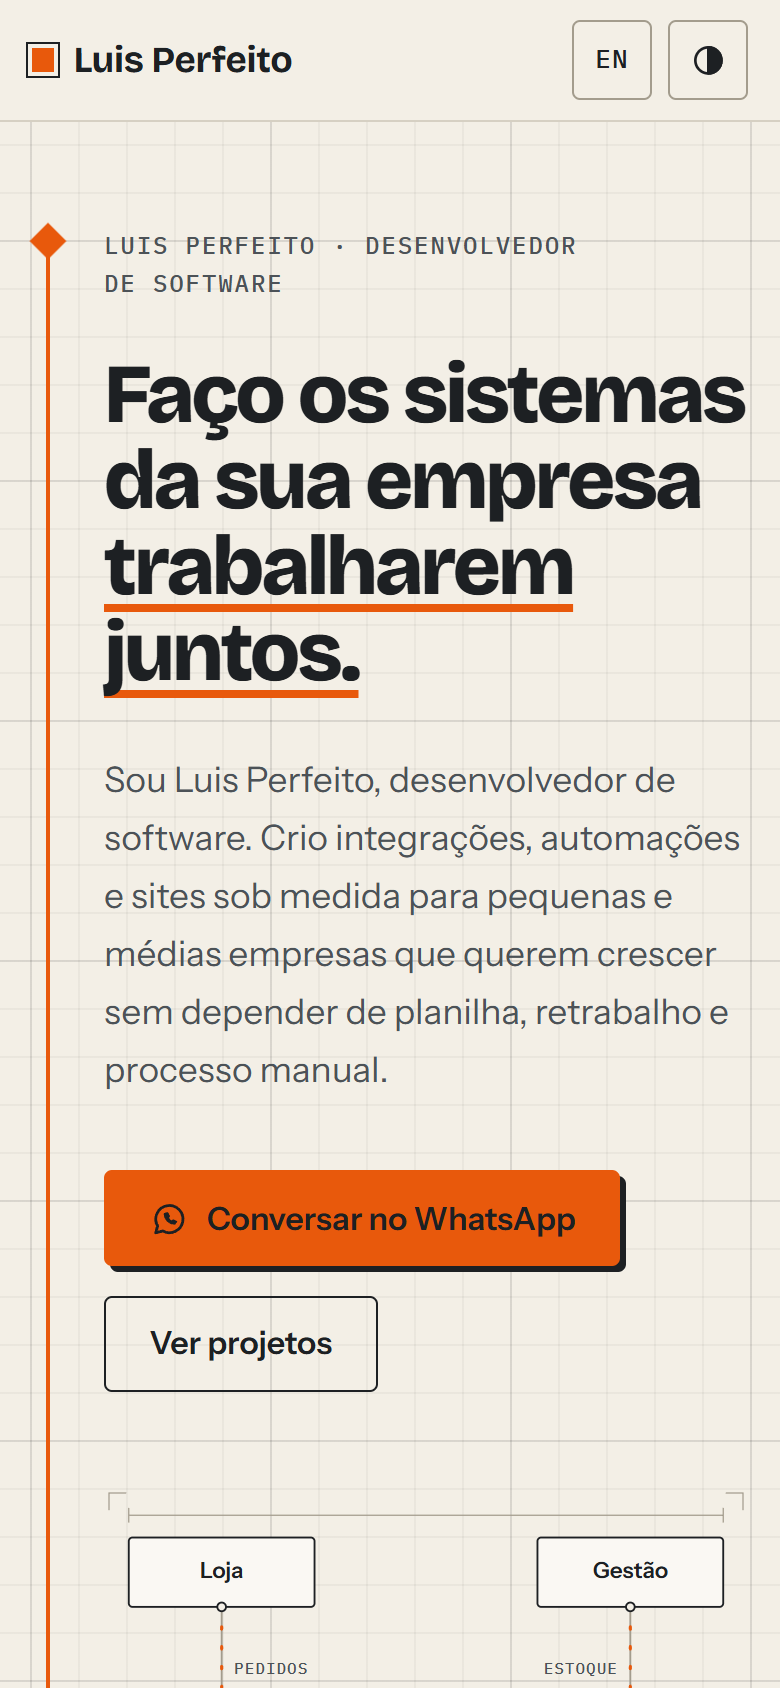
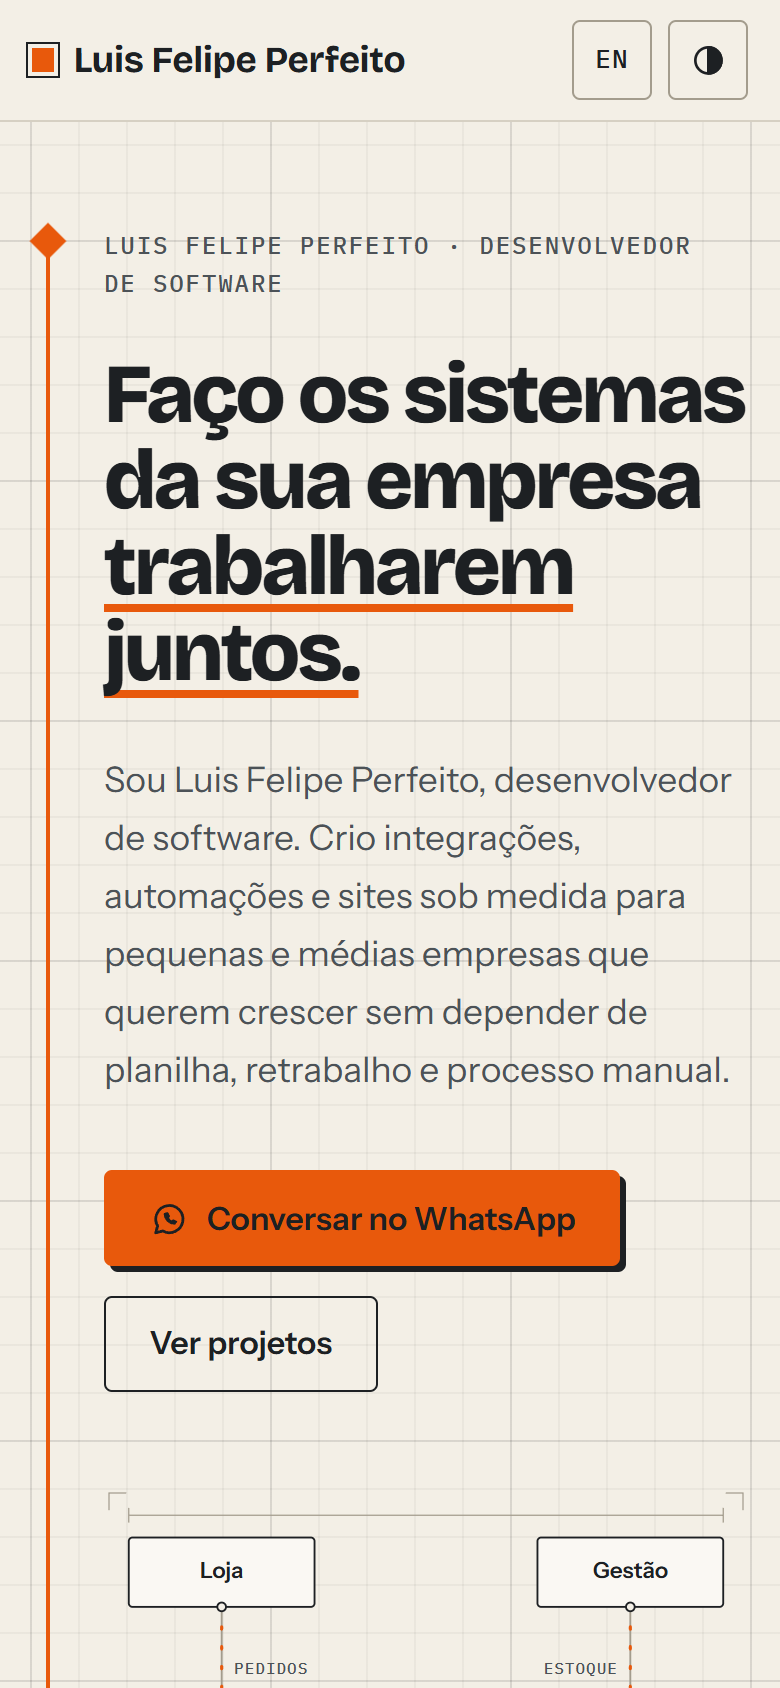
Use the full name Luis Felipe Perfeito across the site (#4)
Replaces "Luis Perfeito" with "Luis Felipe Perfeito" in every visible
place: header, page titles, hero, photo alt text and caption, JSON-LD,
vCard, README and the preview screenshots.

The header, the 404 page and the case study titles now read the name
from `site.name` instead of hardcoding it. URLs and the WhatsApp
greeting ("Olá, Luis!") are unchanged.

diff --git a/src/i18n/ui.ts b/src/i18n/ui.ts
@@ -3,7 +3,7 @@ export type Lang = keyof typeof languages;
 
 const pt = {
   meta: {
-    title: 'Luis Perfeito — Desenvolvedor de Software',
+    title: 'Luis Felipe Perfeito — Desenvolvedor de Software',
     description:
       'Integrações, automações e sites sob medida para pequenas e médias empresas que querem crescer sem depender de planilha, retrabalho e processo manual.',
     ogLocale: 'pt_BR',
@@ -24,10 +24,10 @@ const pt = {
     contact: { id: 'contato', title: 'Contato' },
   },
   hero: {
-    eyebrow: 'Luis Perfeito · Desenvolvedor de Software',
+    eyebrow: 'Luis Felipe Perfeito · Desenvolvedor de Software',
     titleStart: 'Faço os sistemas da sua empresa',
     titleHighlight: 'trabalharem juntos.',
-    lead: 'Sou Luis Perfeito, desenvolvedor de software. Crio integrações, automações e sites sob medida para pequenas e médias empresas que querem crescer sem depender de planilha, retrabalho e processo manual.',
+    lead: 'Sou Luis Felipe Perfeito, desenvolvedor de software. Crio integrações, automações e sites sob medida para pequenas e médias empresas que querem crescer sem depender de planilha, retrabalho e processo manual.',
     primaryCta: 'Conversar no WhatsApp',
     secondaryCta: 'Ver projetos',
     diagram: {
@@ -92,8 +92,8 @@ const pt = {
   },
   about: {
     text: 'Comecei em 2021 testando software numa empresa de seguros, e aprendi cedo que sistema bom é aquele que não falha quando alguém depende dele. Depois fui para uma construtora, onde passei tanto tempo na obra quanto no código. Hoje trabalho com pagamentos, onde cada transação importa. Em comum entre tudo isso: áreas diferentes precisando que a informação chegue certa, na hora certa. É isso que eu construo.',
-    photoAlt: 'Luis Perfeito, de camisa azul, com as mãos apoiadas sob o queixo, olhando para o lado.',
-    photoCaption: 'Fig. 02 — Luis Perfeito',
+    photoAlt: 'Luis Felipe Perfeito, de camisa azul, com as mãos apoiadas sob o queixo, olhando para o lado.',
+    photoCaption: 'Fig. 02 — Luis Felipe Perfeito',
     educationTitle: 'Formação',
     education: [
       { course: 'Bacharelado em Ciência da Computação', school: 'Universidade São Judas Tadeu', period: '2019–2022' },
@@ -138,7 +138,7 @@ export type Dictionary = typeof pt;
 
 const en: Dictionary = {
   meta: {
-    title: 'Luis Perfeito — Software Developer',
+    title: 'Luis Felipe Perfeito — Software Developer',
     description:
       'Custom integrations, automations and websites for small and mid-sized businesses that want to grow without relying on spreadsheets, rework and manual processes.',
     ogLocale: 'en_US',
@@ -159,10 +159,10 @@ const en: Dictionary = {
     contact: { id: 'contact', title: 'Contact' },
   },
   hero: {
-    eyebrow: 'Luis Perfeito · Software Developer',
+    eyebrow: 'Luis Felipe Perfeito · Software Developer',
     titleStart: 'I make your company’s systems',
     titleHighlight: 'work together.',
-    lead: 'I’m Luis Perfeito, a software developer. I build custom integrations, automations and websites for small and mid-sized businesses that want to grow without relying on spreadsheets, rework and manual processes.',
+    lead: 'I’m Luis Felipe Perfeito, a software developer. I build custom integrations, automations and websites for small and mid-sized businesses that want to grow without relying on spreadsheets, rework and manual processes.',
     primaryCta: 'Chat on WhatsApp',
     secondaryCta: 'See projects',
     diagram: {
@@ -227,8 +227,8 @@ const en: Dictionary = {
   },
   about: {
     text: 'I started in 2021 testing software at an insurance company, and learned early that a good system is one that doesn’t fail when someone depends on it. Then I moved to a construction company, where I spent as much time on site as in the code. Today I work with payments, where every transaction matters. What all of this has in common: different areas needing information to arrive right, and on time. That’s what I build.',
-    photoAlt: 'Luis Perfeito, wearing a blue shirt, resting his chin on his hands and looking to the side.',
-    photoCaption: 'Fig. 02 — Luis Perfeito',
+    photoAlt: 'Luis Felipe Perfeito in a blue shirt, chin resting on clasped hands, looking to the side.',
+    photoCaption: 'Fig. 02 — Luis Felipe Perfeito',
     educationTitle: 'Education',
     education: [
       { course: 'B.Sc. in Computer Science', school: 'Universidade São Judas Tadeu', period: '2019–2022' },

diff --git a/src/config/site.ts b/src/config/site.ts
@@ -11,7 +11,7 @@ export interface SiteConfig {
 }
 
 export const site: SiteConfig = {
-  name: 'Luis Perfeito',
+  name: 'Luis Felipe Perfeito',
   url: 'https://luisperfeito.com.br',
   phone: '5511999202024',
   phoneDisplay: '+55 11 99920-2024',

diff --git a/README.md b/README.md
@@ -2,7 +2,7 @@
 
 [![CI](https://github.com/Luis-Perf/portfolio/actions/workflows/ci.yml/badge.svg)](https://github.com/Luis-Perf/portfolio/actions/workflows/ci.yml)
 
-Portfólio de Luis Perfeito, desenvolvedor de software. Site estático e bilíngue (PT-BR e EN), feito com Astro, sem backend e com um único script no navegador.
+Portfólio de Luis Felipe Perfeito, desenvolvedor de software. Site estático e bilíngue (PT-BR e EN), feito com Astro, sem backend e com um único script no navegador.
 
 | Claro | Escuro |
 | --- | --- |
